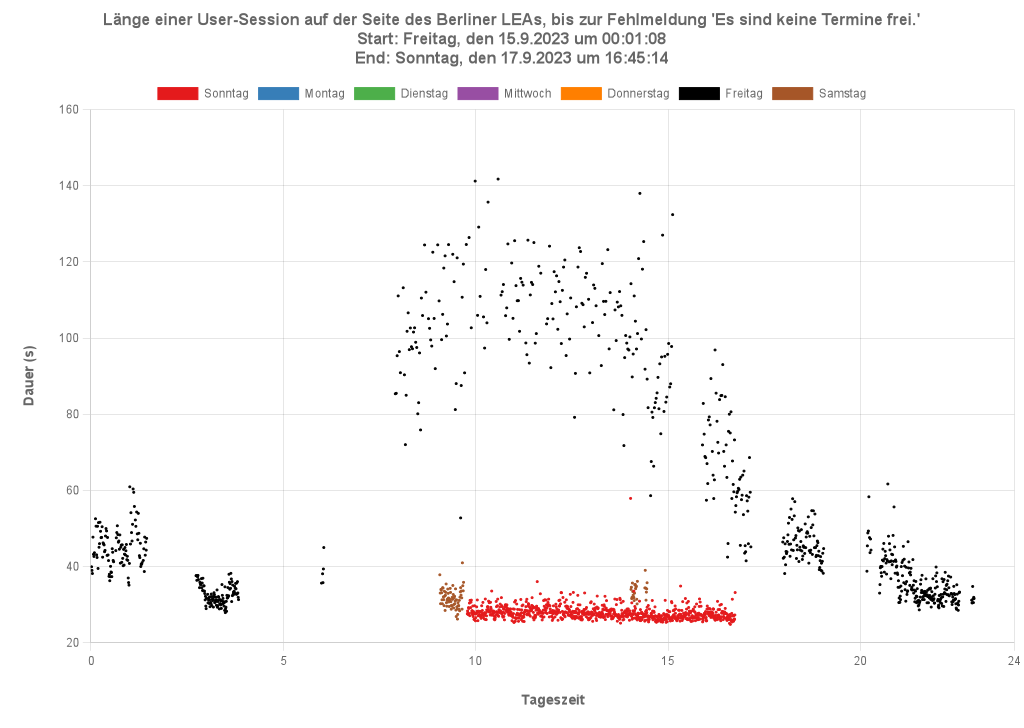
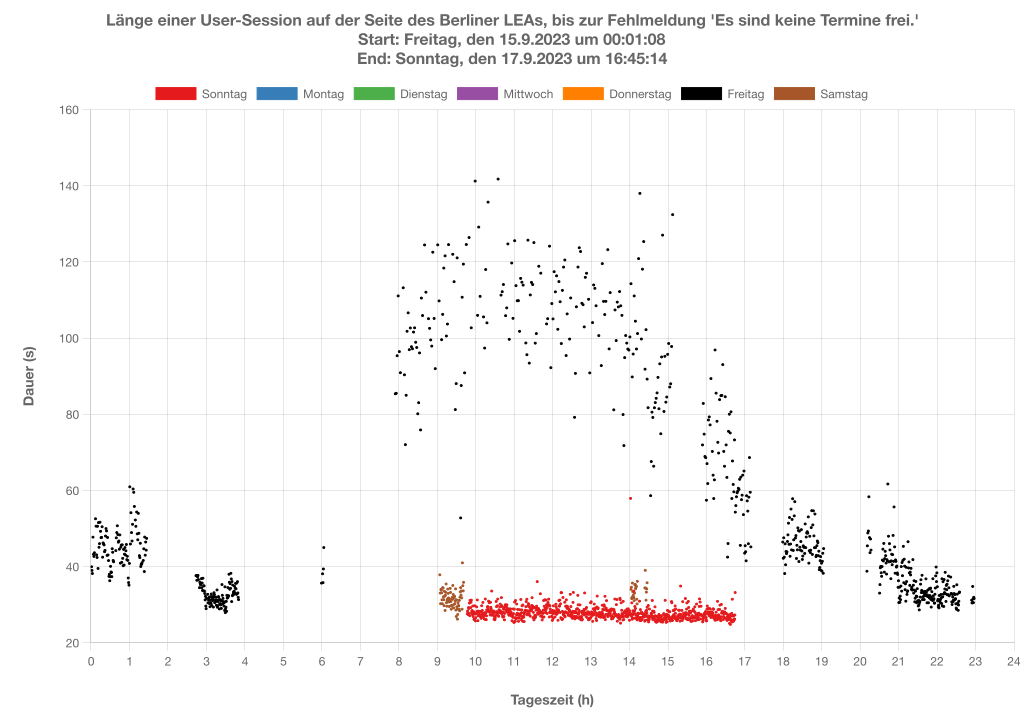
Hotfix graph model.

diff --git a/src/models/graphs/Graph.ts b/src/models/graphs/Graph.ts
@@ -11,12 +11,12 @@ interface GraphOptions {
     title: string[],
     xMin?: number,
     xMax?: number,
+    yMin?: number,
+    yMax?: number,
     xAxisLabel: string,
     yAxisLabel: string,
     width?: number,
     height?: number,
-    xTicksTransform?: (x: number, index: number, ticks: Tick[]) => string,
-    yTicksTransform?: (y: number, index: number, ticks: Tick[]) => string,
 }
 
 interface Dataset {
@@ -82,7 +82,7 @@ abstract class Graph<Data> {
     }
 
     protected generateGraphOptions(opts: GraphOptions): ChartOptions {
-        const { title, xAxisLabel, yAxisLabel, xMin, xMax, xTicksTransform, yTicksTransform } = opts;
+        const { title, xAxisLabel, yAxisLabel, xMin, xMax, yMin, yMax } = opts;
         
         return {
             scales: {
@@ -99,9 +99,10 @@ abstract class Graph<Data> {
                     },
                     min: xMin,
                     max: xMax,
-                    ...(xTicksTransform ? {
-                        callback: xTicksTransform,
-                    } : {}),
+                    ticks: {
+                        stepSize: 1,
+                        autoSkip: false,
+                    },
                 },
                 y: {
                     type: 'linear',
@@ -114,9 +115,8 @@ abstract class Graph<Data> {
                             weight: 'bold',
                         },
                     },
-                    ...(yTicksTransform ? {
-                        callback: yTicksTransform,
-                    } : {}),
+                    min: yMin,
+                    max: yMax,
                 },
             },
             plugins: {

diff --git a/src/models/graphs/NoAppointmentsGraph.ts b/src/models/graphs/NoAppointmentsGraph.ts
@@ -36,7 +36,7 @@ class NoAppointmentsGraph extends Graph<SessionHistory> {
             ],
             xMin: 0,
             xMax: 24,
-            xAxisLabel: `Tageszeit`,
+            xAxisLabel: `Tageszeit (h)`,
             yAxisLabel: `Dauer (${this.yAxisUnit})`,
         };
     }
